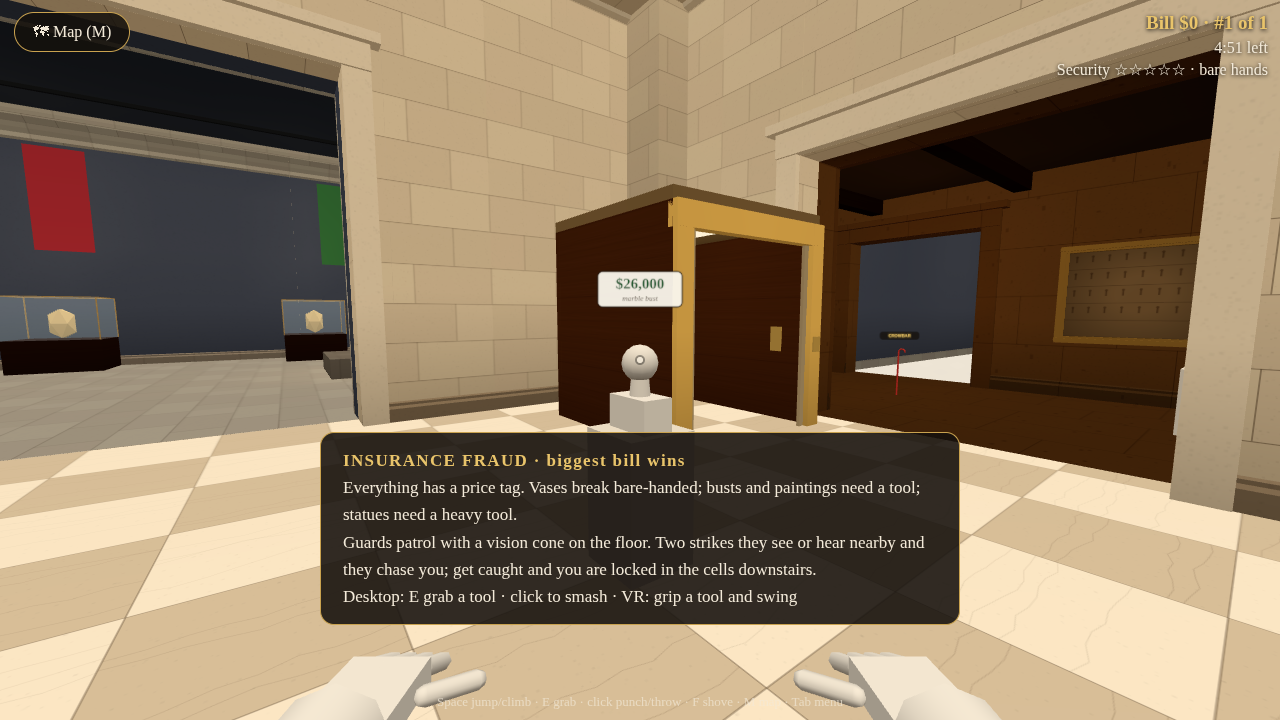
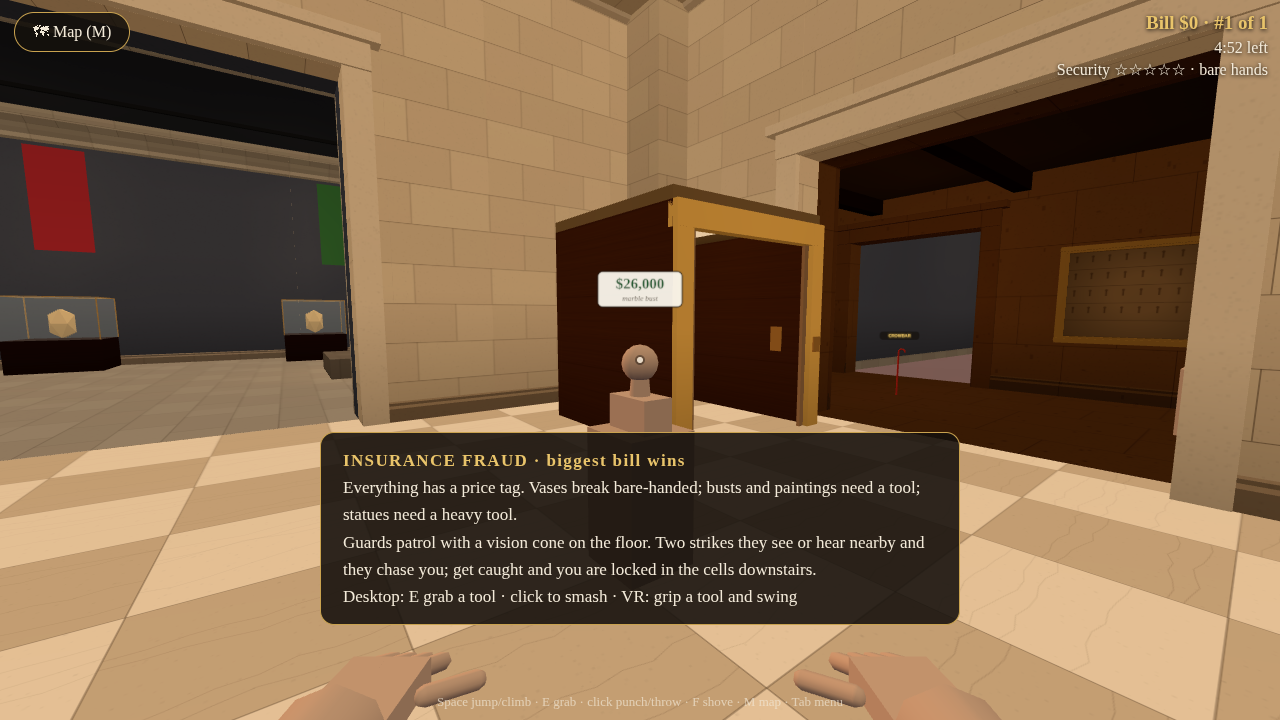
Insurance Fraud plays after hours at sunset
The baked museum is tinted dimmer and warmer, the sky turns to sunset, the
skylight shafts go golden and the dynamic lights go warm and low. Daylight
returns whenever a mode exits.

Claude-Session: https://claude.ai/code/session_011No6nczeQGrtFrMJdAbwKn

diff --git a/client/src/world/world.ts b/client/src/world/world.ts
@@ -5,8 +5,8 @@ import { adjacency, roomAt, type MuseumMap, type RoomId } from '@museum/shared';
 import { buildRoom, type BuildCtx } from './build/rooms';
 import { buildExterior, type ExteriorDynamic } from './build/exterior';
 import { labelAtlas, loadArtCatalogue, type Painting } from './paintings';
-import { setArtTextures, type FixtureRange } from './sink';
-import { shaftTexture, skyTexture } from './textures';
+import { setArtTextures, setWorldTint, type FixtureRange } from './sink';
+import { shaftTexture, skyTexture, sunsetSkyTexture } from './textures';
 import { assets } from '../core/assets';
 import { pendingModels } from './build/exhibits';
 
@@ -23,7 +23,13 @@ export interface World {
   collapse(tag: string): boolean;
   /** Put it back (a new round). */
   restore(tag: string): void;
+  /** Daylight, or the museum after closing at sunset (dimmer and warmer, a sunset sky). */
+  setAtmosphere(a: Atmosphere): void;
 }
+
+export type Atmosphere = 'day' | 'sunset';
+/** What the baked world is multiplied by at sunset: a little dimmer, and warm. */
+const SUNSET_TINT = new THREE.Color(0.8, 0.66, 0.54);
 
 /** Room-room visibility: neighbours, plus rooms seen through chains of big openings. */
 function visibilitySets(map: MuseumMap): Map<RoomId, Set<RoomId>> {
@@ -169,6 +175,8 @@ export async function buildWorld(map: MuseumMap, onProgress?: (label: string) =>
 
   // Sky dome follows the camera.
   const sky = new THREE.Mesh(new THREE.SphereGeometry(900, 24, 12), new THREE.MeshBasicMaterial({ map: skyTexture(), side: THREE.BackSide, depthWrite: false, fog: false }));
+  const daySky = (sky.material as THREE.MeshBasicMaterial).map;
+  let sunsetSky: THREE.Texture | null = null;
   sky.renderOrder = -10;
   sky.name = 'sky';
   scene.add(sky);
@@ -201,6 +209,17 @@ export async function buildWorld(map: MuseumMap, onProgress?: (label: string) =>
     scene, rooms, collider, colliderMesh, sky,
     collapse(tag) { if (collapsed.has(tag)) return true; const ok = apply(tag, false); if (ok) collapsed.add(tag); return ok; },
     restore(tag) { if (!collapsed.has(tag)) return; apply(tag, true); collapsed.delete(tag); },
+    setAtmosphere(a) {
+      const sunset = a === 'sunset';
+      setWorldTint(sunset ? SUNSET_TINT : new THREE.Color(1, 1, 1));
+      const skyMat = sky.material as THREE.MeshBasicMaterial;
+      if (sunset && !sunsetSky) sunsetSky = sunsetSkyTexture();
+      skyMat.map = sunset ? sunsetSky : daySky;
+      skyMat.needsUpdate = true;
+      // Skylight shafts: low golden light instead of bright noon.
+      shaftMat.color.setHex(sunset ? 0xff9a50 : 0xffffff);
+      shaftMat.opacity = sunset ? 0.2 : 0.32;
+    },
     cull(pos) {
       const room = roomAt(map, pos.x, pos.y - 1.2, pos.z)?.id ?? lastRoom ?? 'exterior';
       lastRoom = room;

diff --git a/client/src/game.ts b/client/src/game.ts
@@ -78,15 +78,28 @@ export class Game {
   private countdownShown = false;
   private wristPokeCooldown = 0;
 
+  // Dynamic objects are lit by these; the static world is baked and unlit.
+  private hemi = new THREE.HemisphereLight(0xfff6e8, 0x6b5f50, 2.2);
+  private sun = (() => { const l = new THREE.DirectionalLight(0xfff2dd, 1.2); l.position.set(30, 60, 20); return l; })();
+
+  /** Day, or the museum after closing at sunset: the baked world, the sky and the lights together. */
+  private setAtmosphere(a: 'day' | 'sunset') {
+    const sunset = a === 'sunset';
+    this.world.setAtmosphere(a);
+    this.hemi.color.setHex(sunset ? 0xffc79a : 0xfff6e8);
+    this.hemi.groundColor.setHex(sunset ? 0x4a3a40 : 0x6b5f50);
+    this.hemi.intensity = sunset ? 1.7 : 2.2;
+    this.sun.color.setHex(sunset ? 0xff9a5c : 0xfff2dd);
+    this.sun.intensity = sunset ? 0.9 : 1.2;
+    this.sun.position.set(sunset ? -60 : 30, sunset ? 12 : 60, 20); // low in the west, over the park
+  }
+
   constructor(readonly slug: string | null) {
     this.renderer = createRenderer(this.tier, document.getElementById('app')!);
     this.camera.rotation.order = 'YXZ';
     addEventListener('resize', () => { this.camera.aspect = innerWidth / innerHeight; this.camera.updateProjectionMatrix(); });
     // Dynamic objects are lit; the static world is baked and unlit.
-    this.scene.add(new THREE.HemisphereLight(0xfff6e8, 0x6b5f50, 2.2));
-    const sun = new THREE.DirectionalLight(0xfff2dd, 1.2);
-    sun.position.set(30, 60, 20);
-    this.scene.add(sun);
+    this.scene.add(this.hemi, this.sun);
     this.scene.add(this.avatars.group, this.objects.group, this.breakables.group);
     this.desktop = new DesktopInput(this.renderer.domElement);
     this.announcer = new Announcer(this.camera, () => this.renderer.xr.isPresenting);
@@ -137,6 +150,7 @@ export class Game {
       setAvatarsHidden: (h) => { this.avatars.hideAll = h; },
       setNameFilter: (f) => { this.avatars.hideName = f; },
       visited: this.visited,
+      setAtmosphere: (a) => this.setAtmosphere(a),
     };
 
     // VR entry button; audio starts on the same gesture (brief §10).
@@ -664,11 +678,13 @@ export class Game {
       if (phase === 'countdown' || phase === 'playing') {
         if (!this.mode || this.mode.id !== s.mode) {
           this.mode?.exit(this.modeCtx);
+          this.setAtmosphere('day'); // a mode that wants sunset sets it again in enter()
           this.mode = CLIENT_MODES[s.mode as ModeId] ?? null;
           this.mode?.enter(this.modeCtx);
         }
       } else if (this.mode && phase === 'lobby') {
         this.mode.exit(this.modeCtx);
+        this.setAtmosphere('day');
         this.mode = null;
         this.audio.stopAlarms();
       }

diff --git a/client/src/world/textures.ts b/client/src/world/textures.ts
@@ -252,6 +252,35 @@ export function shaftTexture(): THREE.CanvasTexture {
   return t;
 }
 
+/** Sunset sky: deep blue overhead, rose and orange at the horizon, a low glowing sun. */
+export function sunsetSkyTexture(): THREE.CanvasTexture {
+  const t = canvasTexture(256, (g, s, rand) => {
+    const grad = g.createLinearGradient(0, 0, 0, s);
+    grad.addColorStop(0, '#2c3566');
+    grad.addColorStop(0.25, '#6a4f86');
+    grad.addColorStop(0.4, '#d9786a');
+    grad.addColorStop(0.48, '#f6b36a');
+    grad.addColorStop(0.52, '#7a5a52');
+    grad.addColorStop(1, '#4a3e3a');
+    g.fillStyle = grad;
+    g.fillRect(0, 0, s, s);
+    // The sun, low on the horizon, and a few lit cloud streaks.
+    const sun = g.createRadialGradient(s * 0.3, s * 0.47, 0, s * 0.3, s * 0.47, s * 0.12);
+    sun.addColorStop(0, 'rgba(255,240,200,1)');
+    sun.addColorStop(0.25, 'rgba(255,190,110,0.8)');
+    sun.addColorStop(1, 'rgba(255,140,80,0)');
+    g.fillStyle = sun;
+    g.fillRect(0, s * 0.3, s, s * 0.22);
+    for (let i = 0; i < 10; i++) {
+      const y = s * (0.3 + rand() * 0.14), w = 30 + rand() * 60;
+      g.fillStyle = `rgba(255,${150 + Math.floor(rand() * 60)},120,0.35)`;
+      g.fillRect(rand() * s, y, w, 2 + rand() * 3);
+    }
+  });
+  t.wrapT = THREE.ClampToEdgeWrapping;
+  return t;
+}
+
 /** Sky gradient for the sky dome. */
 export function skyTexture(): THREE.CanvasTexture {
   const t = canvasTexture(256, (g, s, rand) => {

diff --git a/client/src/world/sink.ts b/client/src/world/sink.ts
@@ -37,6 +37,12 @@ const SPECS: Record<string, MatSpec> = {
 };
 
 const matCache = new Map<string, THREE.Material>();
+/** A colour every world material is multiplied by: white by day, dim and warm at sunset. Costs nothing per frame. */
+const worldTint = new THREE.Color(1, 1, 1);
+export function setWorldTint(c: THREE.Color) {
+  worldTint.copy(c);
+  for (const m of matCache.values()) (m as THREE.MeshBasicMaterial).color.copy(c);
+}
 let canvasAtlases: THREE.Texture[] = [];
 let labelTexture: THREE.Texture | null = null;
 
@@ -63,6 +69,7 @@ export function material(key: MatKey): THREE.Material {
   else if (key === 'labels') map = labelTexture;
   m = new THREE.MeshBasicMaterial({
     map,
+    color: worldTint,
     vertexColors: true,
     transparent: !!spec.transparent,
     opacity: spec.opacity ?? 1,

diff --git a/client/src/modes/fraud.ts b/client/src/modes/fraud.ts
@@ -168,6 +168,8 @@ let t = 0;
 export const insuranceFraud: ClientMode = {
   id: 'insuranceFraud',
   enter(ctx) {
+    // After hours: the museum has closed for the day and the sun is going down.
+    ctx.setAtmosphere('sunset');
     cones = new Cones();
     ctx.scene.add(cones.group);
     guards = new Crowd(); beacons = new Beacons(); popups = new Popups(); toolLabels = new ToolLabels();

diff --git a/client/src/modes/index.ts b/client/src/modes/index.ts
@@ -22,6 +22,8 @@ export interface ClientModeCtx {
   setNameFilter: (hide: ((id: string) => boolean) | null) => void;
   /** Rooms you have set foot in this session. */
   visited: Set<string>;
+  /** Light the museum by day or at sunset after closing (reset to day when a mode exits). */
+  setAtmosphere: (a: 'day' | 'sunset') => void;
 }
 
 export interface ClientMode {

diff --git a/docs/DECISIONS.md b/docs/DECISIONS.md
@@ -127,3 +127,5 @@ One paragraph per meaningful choice, with the reason. Deviations from the brief 
 **Crowd Control is confined to the Great Hall (brief §17 used a museum-wide circuit).** The human asked for the game to be in the main lobby. The circuit is now a loop in the hall: in by the north front door, round the information desk, past the foot of the Grand Staircase, out by the south front door. The closed areas are three doorways off the hall: the Egyptian wing, the staff-only staircase and the Greek galleries. The pinch points where crowds jam are the two doors and the stair foot, listed on the circuit itself so other modes' zones never count. A short loop has few turning points, so the wrong-turn chance per point went up (1.5–3.5 % became 4–8 %) to keep strays coming.
 
 **Batons for everyone in Crowd Control.** The human asked for batons to hit tourists on the head, with a vibration in the hand. Each player is handed a baton when the round starts or they join, owned by them so nobody else can take it. The client spots the hit: in VR, the baton's shaft passes within 0.2 m of a head at 1.6 m/s or faster; on desktop, a click on a tourist while holding the baton. The server checks that the player is holding their baton, is within 2.2 m and isn't in the 0.35 s cooldown. A bonk is a playful daze, not violence: three cartoon stars circle the head for 1.6 s, the tourist wobbles and stands still, and says something comic. A stray (or their group's leader) turns straight round, stubborn or not, so the baton beats tapping. A well-behaved tourist is only dazed, and dazed tourists block the flow, so bonking everyone fills the jam meter. The haptic is two pulses on the hitting controller, a sharp knock (100 %, 70 ms) and then a rebound buzz (55 %, 110 ms). Tapping with a free hand still works.
+
+**Insurance Fraud happens at sunset, after closing.** The human wanted the game to feel like the museum is closed: sunset, lights dimmed a little. The museum's lighting is baked into vertex colours under unlit materials (brief §9.2), so dimming it is a single colour multiplier on the shared world materials: 80 % red, 66 % green, 54 % blue, which is a little darker and warm. That costs nothing per frame, needs no real-time lights and keeps the Quest frame rate. The sky dome swaps to a sunset gradient with a low sun. The skylight shafts turn golden and fainter. The two lights for moving things (players, tools, guards) turn warm and low in the west. Modes ask for this through `ClientModeCtx.setAtmosphere`, and the game puts daylight back whenever any mode exits, so a fifth mode never has to undo another's lighting.

diff --git a/docs/PROGRESS.md b/docs/PROGRESS.md
@@ -227,6 +227,13 @@ Found and fixed during the pass:
 | Desktop: with the baton in your right hand, E carries stanchions and signs in your left; clicking empty air swings instead of throwing the baton away | browser |
 | Perf: Crowd Control's worst view is now the Great Hall balcony at 150 draw calls (the budget) because the whole crowd is in one room | browser (`mode-perf.ts`) |
 
+### Insurance Fraud after hours (requested)
+
+| Item | Status |
+|---|---|
+| Insurance Fraud plays at sunset after closing: the whole museum a little dimmer and warmer, a sunset sky through the glass courts and windows, low golden skylight shafts, and warm low sun on people and objects. Every other mode is in daylight, and the museum goes back to daylight when the round ends | screenshot (`_day-*` vs `_sunset-*`), browser (`fraud-desktop.ts`) |
+| No frame-rate cost: one colour on the shared world materials, no extra lights or draw calls | browser (draw calls unchanged) |
+
 ## Known gaps and issues
 
 - **Art.** The Met API and image hosts are blocked from the build environment, so the galleries show procedural placeholder paintings. **Human: run `npm run fetch-art` once**, check the result, and commit `client/public/assets/art/` and `docs/CREDITS-art.md`. The script is written against the documented API but has not been run.

diff --git a/docs/HEADSET_TESTS.md b/docs/HEADSET_TESTS.md
@@ -130,3 +130,8 @@ I can't put on a Quest, so this is your checklist. Run it after each milestone, 
 - [ ] **Bonk feel.** Swing at a wrong-way tourist's head. Does the hit register on a natural swing (not too fast needed)? Is the double buzz (knock, then rebound) satisfying, or too strong?
 - [ ] **Stars.** Can you see the stars and the wobble from a couple of metres away?
 - [ ] **Lobby crowding.** With 20+ tourists in the Great Hall in later waves, is the frame rate steady? (Desktop measure: 150 draw calls on the balcony.)
+
+## Insurance Fraud at sunset
+
+- [ ] **After hours.** Start Insurance Fraud: does the museum feel closed and sunset-lit, yet still bright enough to see the price tags, the guards and their vision cones?
+- [ ] **Back to day.** After the round, is the lobby back to full daylight?
